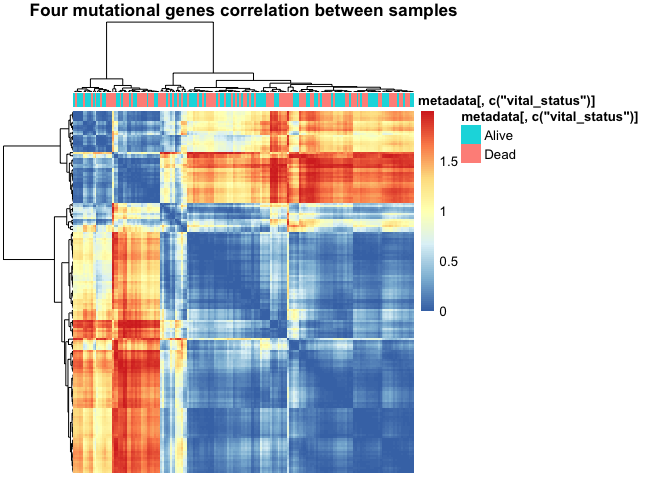
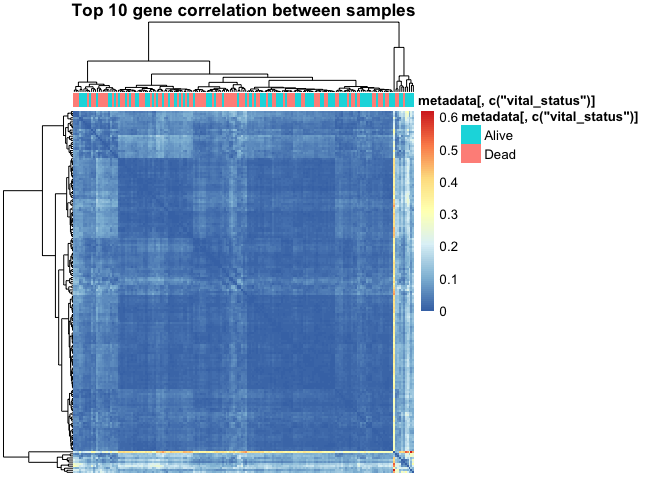
first draft ir

diff --git a/project/individual_report.md b/project/individual_report.md
@@ -69,119 +69,69 @@ seminars, and it’s fun to work with different background students.
 
 ## Answer to one question specific to your project (3 points)
 
-What is your rationale for mostly analyzing the top 10 genes, and not
-for instance genes that pass FDR, or some other number of top genes? How
-do you think this impacted your results?
-
-We find the the top4 genes, suggested mutational signature genes (Kras,
-tp53, cdkn2a and smad4) and top 10 genes
+**Q: What is your rationale for mostly analyzing the top 10 genes, and
+not for instance genes that pass FDR, or some other number of top genes?
+How do you think this impacted your
+results?**
 
 ``` r
-preDat <- as.data.frame(metadata[, c("vital_status")])
-rownames(preDat) <- metadata$submitter_id 
-
-data_to_plot <- as.dist(1-cor(topFour))
-data_to_plot <- as.matrix(data_to_plot)
-pheatmap(data_to_plot, cluster_rows = T, scale =  "none" , clustering_method = "ward.D2",
-         clustering_distance_cols = "euclidean", show_rownames = F, show_colnames = F,
-         main = "Top 4 gene correlation between samples",
-         annotation = preDat)
+(tptb <- toptable(ebfit)) %>% kable()
 ```
 
-![](individual_report_files/figure-gfm/unnamed-chunk-5-1.png)<!-- -->
+|               |       logFC |          t |   P.Value | adj.P.Val |          B |
+| ------------- | ----------: | ---------: | --------: | --------: | ---------: |
+| THBS1         | \-0.3383241 | \-3.121237 | 0.0018009 |  0.999918 | \-2.663375 |
+| NNMT          | \-0.3298341 | \-3.042912 | 0.0023430 |  0.999918 | \-2.774369 |
+| CREM          | \-0.3297327 | \-3.041977 | 0.0023503 |  0.999918 | \-2.775677 |
+| CTD-2033D15.2 | \-0.3257617 | \-3.005341 | 0.0026528 |  0.999918 | \-2.826609 |
+| OLFML2B       | \-0.3223433 | \-2.973805 | 0.0029413 |  0.999918 | \-2.869958 |
+| CYP1B1        | \-0.3207618 | \-2.959214 | 0.0030843 |  0.999918 | \-2.889858 |
+| KCNE4         | \-0.3200521 | \-2.952667 | 0.0031504 |  0.999918 | \-2.898757 |
+| ITPRIP        | \-0.3196528 | \-2.948983 | 0.0031882 |  0.999918 | \-2.903754 |
+| RP11-21L23.2  | \-0.3105856 | \-2.865333 | 0.0041657 |  0.999918 | \-3.015568 |
+| CTGF          | \-0.3079740 | \-2.841239 | 0.0044939 |  0.999918 | \-3.047176 |
 
-``` r
-data_to_plot <- as.dist(1-cor(mutFour))
-data_to_plot <- as.matrix(data_to_plot)
-pheatmap(data_to_plot, cluster_rows = T, scale =  "none" , clustering_method = "ward.D2",
-         clustering_distance_cols = "euclidean", show_rownames = F, show_colnames = F,
-         main = "Four mutational genes correlation between samples",
-         annotation = preDat)
-```
+We have analysis a cohort of pancreatic adenocarcinoma (PAAD) patients
+who were diagnosed between 2001 to 2014. There are 177 patients with
+average follow-up 655 days. We consider the latest death as the endpoint
+in the analysis. The patients were between the age of 35-88 years old.
+To identify genes that are more heavily expressed in PAAD patients that
+have longer survival time compared to those that have a shorter survival
+time, we used `limma` and `eBayes` to model the relationship between
+gene expression and vital status.
+
+`lmFit()` function that we used carries out multiple linear regression
+on each gene, where the explanatory variable was *vital\_status*. The
+multiple linear regressions were conducted to evaluate the association
+between gene expression values and patients’ survival situations.
+Meanwhile, since we perform the statistical test on each gene, the
+thdangerouse of multiple testing should be considered. We controled the
+false discovery rate (FDR) using Benjamini Hochberg method, and
+`adj.P.Val` is the BH FDR values given by default.
+
+However, all `adj.P.Val` are the same and close to 1. We’re not getting
+any genes with adjusted p-values below 0.05, meaning that there is no
+genes pass the FDR, and this data set doesn’t provide any differentially
+expressed genes at a FDR threshold of 0.05.
+
+No matter what number of top genes used to analyze, `adj.P.Val` are
+still constant and close to 1. However, an adjusted p-value of 1 doesn’t
+mean there is no differential expression, it just means that this
+particular data set does not show any evidence of differential
+expression. The insufficient quality of the data set might because of
+hidden batch effects obscuring the true effect or other errors that we
+need to find out.
+
+These are the heatmaps for different selected genes correlation between
+samples. Since we cannot access the control cohort, the mutational
+signature genes cannot be detected. The suggested mutational genes are
+`KRAS`, `TP53`, `CDKN2A` and `SMAD4`.
 
 ![](individual_report_files/figure-gfm/unnamed-chunk-6-1.png)<!-- -->
 
-``` r
-data_to_plot <- as.dist(1-cor(topTen))
-data_to_plot <- as.matrix(data_to_plot)
-pheatmap(data_to_plot, cluster_rows = T, scale =  "none" , clustering_method = "ward.D2",
-         clustering_distance_cols = "euclidean", show_rownames = F, show_colnames = F,
-         main = "Top 10 gene correlation between samples",
-         annotation = preDat)
-```
-
 ![](individual_report_files/figure-gfm/unnamed-chunk-7-1.png)<!-- -->
 
-``` r
-# Four mutational genes
-meta_mut4$vital_status <- as.numeric(meta_mut4$vital_status)-1
+![](individual_report_files/figure-gfm/unnamed-chunk-8-1.png)<!-- -->
 
-coxph(Surv(time, vital_status) ~ KRAS + TP53 + CDKN2A + SMAD4, 
-         data = meta_mut4)
-```
-
-    ## Call:
-    ## coxph(formula = Surv(time, vital_status) ~ KRAS + TP53 + CDKN2A + 
-    ##     SMAD4, data = meta_mut4)
-    ## 
-    ##           coef exp(coef) se(coef)      z      p
-    ## KRAS    3.5642   35.3117   1.1086  3.215 0.0013
-    ## TP53    0.6371    1.8910   0.7455  0.855 0.3928
-    ## CDKN2A -1.8455    0.1579   0.8579 -2.151 0.0315
-    ## SMAD4  -0.2044    0.8151   0.3192 -0.640 0.5220
-    ## 
-    ## Likelihood ratio test=15.32  on 4 df, p=0.004081
-    ## n= 176, number of events= 92 
-    ##    (1 observation deleted due to missingness)
-
-``` r
-# Top 4 gene
-meta_gene4$vital_status <- as.numeric(meta_gene4$vital_status)-1
-
-coxph(Surv(time, vital_status) ~ THBS1 + `CTD-2033D15.2` + NNMT + CREM, 
-         data = meta_gene4)
-```
-
-    ## Call:
-    ## coxph(formula = Surv(time, vital_status) ~ THBS1 + `CTD-2033D15.2` + 
-    ##     NNMT + CREM, data = meta_gene4)
-    ## 
-    ##                       coef  exp(coef)   se(coef)      z       p
-    ## THBS1           -9.877e+00  5.136e-05  3.746e+00 -2.637 0.00837
-    ## `CTD-2033D15.2`  1.850e-01  1.203e+00  8.837e-01  0.209 0.83415
-    ## NNMT             6.330e-01  1.883e+00  3.963e-01  1.597 0.11019
-    ## CREM             4.756e-01  1.609e+00  4.491e-01  1.059 0.28961
-    ## 
-    ## Likelihood ratio test=10.47  on 4 df, p=0.03326
-    ## n= 176, number of events= 92 
-    ##    (1 observation deleted due to missingness)
-
-``` r
-# Top 10 gene
-meta_gene10$vital_status <- as.numeric(meta_gene10$vital_status)-1
-
-coxph(Surv(time, vital_status) ~ THBS1 + `CTD-2033D15.2` + NNMT + CREM + OLFML2B +
-        CYP1B1 + KCNE4 + ITPRIP + `RP11-21L23.2` + CTGF, 
-         data = meta_gene10)
-```
-
-    ## Call:
-    ## coxph(formula = Surv(time, vital_status) ~ THBS1 + `CTD-2033D15.2` + 
-    ##     NNMT + CREM + OLFML2B + CYP1B1 + KCNE4 + ITPRIP + `RP11-21L23.2` + 
-    ##     CTGF, data = meta_gene10)
-    ## 
-    ##                       coef  exp(coef)   se(coef)      z       p
-    ## THBS1           -1.171e+01  8.248e-06  4.238e+00 -2.762 0.00574
-    ## `CTD-2033D15.2`  5.356e-01  1.709e+00  5.161e-01  1.038 0.29931
-    ## NNMT            -1.922e+00  1.463e-01  6.242e-01 -3.080 0.00207
-    ## CREM             1.800e+00  6.052e+00  6.229e-01  2.890 0.00385
-    ## OLFML2B          2.807e+00  1.657e+01  1.178e+00  2.382 0.01720
-    ## CYP1B1          -5.478e-01  5.782e-01  7.375e-01 -0.743 0.45761
-    ## KCNE4           -7.426e-01  4.759e-01  5.684e-01 -1.307 0.19136
-    ## ITPRIP           7.117e-01  2.037e+00  5.068e-01  1.404 0.16025
-    ## `RP11-21L23.2`   1.663e-01  1.181e+00  1.533e+00  0.108 0.91361
-    ## CTGF             7.167e-02  1.074e+00  9.337e-01  0.077 0.93881
-    ## 
-    ## Likelihood ratio test=27.37  on 10 df, p=0.002273
-    ## n= 176, number of events= 92 
-    ##    (1 observation deleted due to missingness)
+We can see that the sample clusters might not due to different vital
+status.
